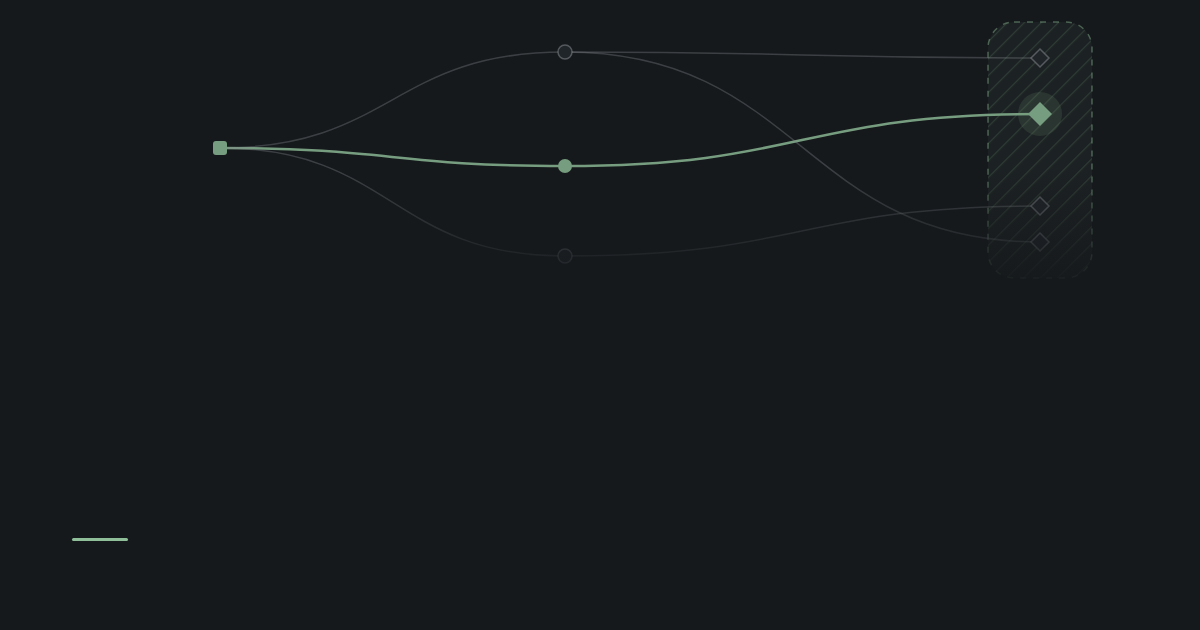
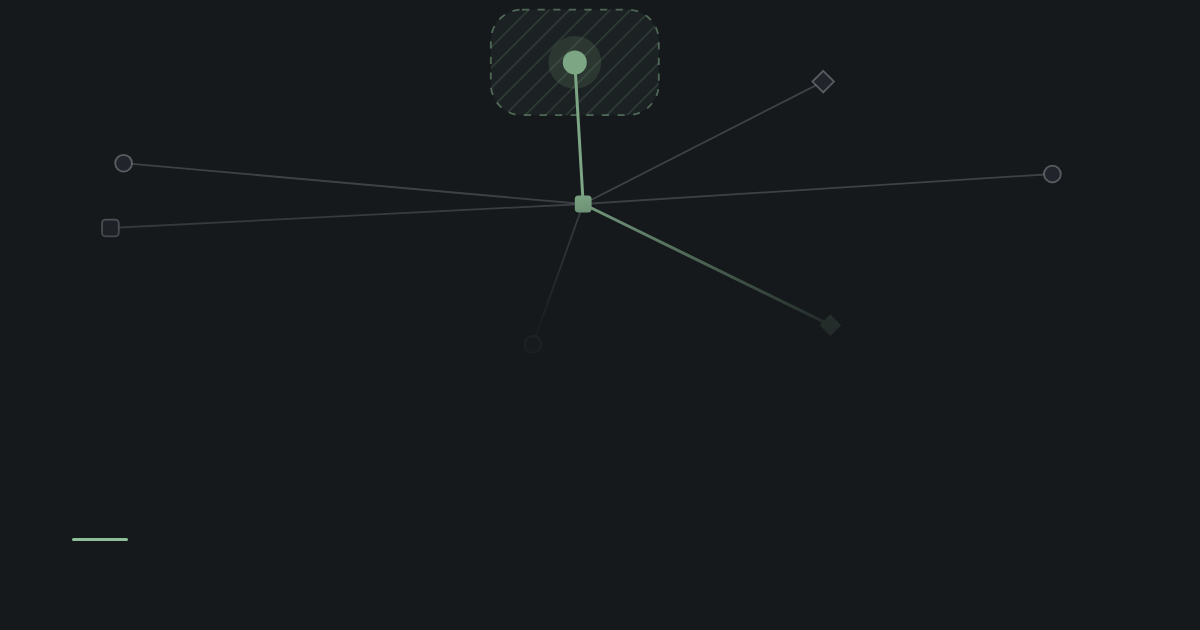
Draw from the article's outline, add a hub layout, topic dots and a pulse
Essays, talks and projects with three or more sections are drawn from
their own outline, and a series moves the boundary along with each part.
A quarter of the pages use a hub layout instead of the flow. Hues move
from inline styles to CSS classes, which also colour a small dot next to
topic names. A dot runs the highlighted path once after it draws in.
Social cards set the drawing larger behind the title and add the kind
and month.

Claude-Session: https://claude.ai/code/session_0175HbppHQcEwuQax9mw2rqe

diff --git a/layouts/_partials/diagram.html b/layouts/_partials/diagram.html
@@ -1,12 +1,14 @@
 {{- /*
-Trust Boundaries: a quiet, deterministic flow drawing for any page. A hash of the page's identity
-picks everything: how many columns of nodes, how many nodes per column, which links cross, which
-path is highlighted, where the trust boundary sits and the page's own muted hue. No labels, so
-the drawing stays calm; no two pages share a composition.
+Trust Boundaries: a quiet, deterministic drawing for any page. The page's topics pick the colours.
+An essay, talk or project with three or more sections is drawn from its own outline: one column
+per section, more nodes for a longer or subdivided section, and the boundary on the column of its
+part in a series. Everything else comes from a hash of the page's identity: a set shape for pages
+without an outline, flow or hub layout, line style, node marks, the highlighted path. No labels,
+so the drawing stays calm; no two pages share a composition.
 
 Context: dict "page" PAGE, optional "seed" (string, overrides the page identity),
 "name" (view-transition name), "class".
-Always decorative. Colours come from CSS custom properties, so the drawing follows the theme.
+Always decorative. Colours come from CSS classes and custom properties, so the drawing follows the theme.
 */ -}}
 {{- $p := .page -}}
 {{- $seed := .seed | default (printf "%s|%s" (partial "data/id.html" $p) $p.Title) -}}
@@ -14,78 +16,129 @@ Always decorative. Colours come from CSS custom properties, so the drawing follo
 {{- $hex := dict "0" 0 "1" 1 "2" 2 "3" 3 "4" 4 "5" 5 "6" 6 "7" 7 "8" 8 "9" 9 "a" 10 "b" 11 "c" 12 "d" 13 "e" 14 "f" 15 -}}
 {{- $n := slice -}}{{- range seq 0 31 -}}{{- $n = $n | append (index $hex (substr $h . 1)) -}}{{- end -}}
 
-{{- /* Colour: the first topic's hue for the path, the second topic's (if any) for the boundary. */ -}}
+{{- /* Colour: the first topic's hue for the path (t-<topic>), the second topic's for the boundary
+   (u-<topic>). A page without a topic takes one of eight hues from the hash (h-<n>). */ -}}
 {{- $topics := slice -}}
 {{- with .seed }}{{ with (partial "data/topic.html" .).id }}{{ $topics = slice . }}{{ end }}{{ else }}{{ $topics = partial "data/topics.html" $p }}{{ end -}}
-{{- $hue := index (slice 10 55 100 150 195 235 275 320) (mod (index $n 30) 8) -}}
-{{- with index $topics 0 }}{{ with (partial "data/topic.html" .).hue }}{{ $hue = . }}{{ end }}{{ end -}}
-{{- $hue2 := $hue -}}
-{{- if gt (len $topics) 1 }}{{ with (partial "data/topic.html" (index $topics 1)).hue }}{{ $hue2 = . }}{{ end }}{{ end -}}
+{{- $tone := printf "h-%d" (mod (index $n 30) 8) -}}
+{{- with index $topics 0 }}{{ $tone = printf "t-%s" . }}{{ end -}}
+{{- if gt (len $topics) 1 }}{{ $tone = printf "%s u-%s" $tone (index $topics 1) }}{{ end -}}
 
-{{- /* Shape: a third of the pages get a free flow (1–3 nodes per middle column); the rest take one
-   of the set shapes: fan-out, fan-in, diamond, relay through one party. */ -}}
-{{- $shapes := slice (slice 1 2 3 4) (slice 1 3 4) (slice 4 3 2 1) (slice 4 2 1) (slice 1 3 1) (slice 1 2 3 2 1) (slice 1 4 1) (slice 2 1 2) (slice 2 1 3 1) (slice 3 1 3) (slice 2 1 2 1 2) (slice 1 1 3) -}}
-{{- $counts := slice -}}
-{{- if lt (index $n 0) 5 -}}
-  {{- $cols := add 3 (mod (index $n 0) 3) -}}
-  {{- range $c := seq 0 (sub $cols 1) -}}
-    {{- $k := add 1 (mod (index $n (add 6 $c)) 3) -}}
-    {{- if or (eq $c 0) (eq $c (sub $cols 1)) }}{{ $k = add 1 (mod (index $n (add 6 $c)) 2) }}{{ end -}}
-    {{- $counts = $counts | append $k -}}
+{{- /* Outline: nodes per section, from the section's length against the page's average and
+   whether it has subsections. At most six sections are drawn. */ -}}
+{{- $counts := slice }}{{ $outline := false -}}
+{{- if and (not .seed) (in (slice "essay" "talk" "project") (partial "data/kind.html" $p)) -}}
+  {{- $words := slice }}{{ $subs := slice }}{{ $total := 0 -}}
+  {{- range $i, $s := split $p.RawContent "\n## " }}{{ if and $i (lt (len $words) 6) -}}
+    {{- $w := countwords $s }}{{ $total = add $total $w -}}
+    {{- $words = $words | append $w }}{{ $subs = $subs | append (sub (len (split $s "\n### ")) 1) -}}
+  {{- end }}{{ end -}}
+  {{- if ge (len $words) 3 -}}
+    {{- $outline = true }}{{ $mean := div $total (len $words) -}}
+    {{- range $i, $w := $words -}}
+      {{- $k := 1 -}}
+      {{- if gt (mul $w 4) (mul $mean 3) }}{{ $k = add $k 1 }}{{ end -}}
+      {{- if gt (mul $w 2) (mul $mean 3) }}{{ $k = add $k 1 }}{{ end -}}
+      {{- if index $subs $i }}{{ $k = add $k 1 }}{{ end -}}
+      {{- if and (gt $k 3) (gt (len $words) 4) }}{{ $k = 3 }}{{ end -}}
+      {{- $counts = $counts | append $k -}}
+    {{- end -}}
   {{- end -}}
-{{- else -}}
-  {{- $counts = index $shapes (mod (add (index $n 0) (index $n 31)) (len $shapes)) -}}
+{{- end -}}
+{{- /* Without an outline: a third of the pages get a free flow (1–3 nodes per middle column); the
+   rest take one of the set shapes: fan-out, fan-in, diamond, relay through one party. */ -}}
+{{- if not $outline -}}
+  {{- $shapes := slice (slice 1 2 3 4) (slice 1 3 4) (slice 4 3 2 1) (slice 4 2 1) (slice 1 3 1) (slice 1 2 3 2 1) (slice 1 4 1) (slice 2 1 2) (slice 2 1 3 1) (slice 3 1 3) (slice 2 1 2 1 2) (slice 1 1 3) -}}
+  {{- if lt (index $n 0) 5 -}}
+    {{- $c := add 3 (mod (index $n 0) 3) -}}
+    {{- range $i := seq 0 (sub $c 1) -}}
+      {{- $k := add 1 (mod (index $n (add 6 $i)) 3) -}}
+      {{- if or (eq $i 0) (eq $i (sub $c 1)) }}{{ $k = add 1 (mod (index $n (add 6 $i)) 2) }}{{ end -}}
+      {{- $counts = $counts | append $k -}}
+    {{- end -}}
+  {{- else -}}
+    {{- $counts = index $shapes (mod (add (index $n 0) (index $n 31)) (len $shapes)) -}}
+  {{- end -}}
 {{- end -}}
 {{- $cols := len $counts -}}
-{{- $step := div 820 (sub $cols 1) -}}
-{{- $gaps := slice 0 0 130 90 64 -}}
-{{- $nodes := slice }}{{ $colNodes := slice -}}
-{{- range $c, $k := $counts -}}
-  {{- $x := add (add 190 (mul $c $step)) (mul (sub (index $n (add 1 $c)) 7) 5) -}}
-  {{- $mark := mod (index $n (add 18 $c)) 3 -}}
-  {{- $ids := slice -}}
+{{- /* Part in a series (0 for the first), or -1. */ -}}
+{{- $part := -1 -}}
+{{- if not .seed }}{{ with partial "data/series.html" $p }}{{ range $i, $sp := .pages }}{{ if eq $sp $p }}{{ $part = $i }}{{ end }}{{ end }}{{ end }}{{ end -}}
+
+{{- $nodes := slice }}{{ $edges := slice }}{{ $path := slice -}}
+{{- $bx := 0 }}{{ $by := 0 }}{{ $bw := 0 }}{{ $bh := 0 -}}
+{{- $hub := lt (index $n 4) 4 -}}
+{{- if $hub -}}
+  {{- /* Hub: one party in the middle, one spoke per section (four to eight), the path in through
+     one spoke and out through another. The boundary sits on the hub or on the path's last node. */ -}}
+  {{- $k := add 5 (mod (index $n 0) 4) -}}
+  {{- if $outline }}{{ $k = cond (lt $cols 4) 4 $cols }}{{ end -}}
+  {{- $cx := add 600 (mul (sub (index $n 1) 7) 6) -}}
+  {{- $nodes = $nodes | append (dict "x" $cx "y" 200 "mark" (mod (index $n 18) 3)) -}}
+  {{- $from := mod (index $n 24) $k }}{{ $to := mod (add $from (add (div $k 2) (mod (index $n 25) 2))) $k -}}
+  {{- $turn := mul (index $n 2) 4 -}}
   {{- range $i := seq 0 (sub $k 1) -}}
-    {{- $gap := index $gaps $k -}}
-    {{- $y := add (sub 200 (div (mul $gap (sub $k 1)) 2)) (mul $i $gap) -}}
-    {{- $y = add $y (mul (sub (index $n (mod (add 12 (add (mul $c 3) $i)) 32)) 7) (cond (eq $k 4) 2 3)) -}}
-    {{- $ids = $ids | append (len $nodes) -}}
-    {{- $nodes = $nodes | append (dict "x" $x "y" $y "mark" $mark) -}}
+    {{- $deg := add (add (div (mul 360 $i) $k) $turn) (mul (sub (index $n (add 6 $i)) 7) 2) -}}
+    {{- $rad := div (mul (float $deg) math.Pi) 180 -}}
+    {{- $x := add $cx (int (math.Round (mul 400 (math.Cos $rad)))) }}{{ $y := add 200 (int (math.Round (mul 118 (math.Sin $rad)))) -}}
+    {{- $nodes = $nodes | append (dict "x" $x "y" $y "mark" (mod (index $n (add 19 (mod $i 5))) 3)) -}}
   {{- end -}}
-  {{- $colNodes = $colNodes | append (dict "ids" $ids) -}}
-{{- end -}}
-
-{{- /* Highlighted path: one node per column, chosen by the hash. */ -}}
-{{- $path := slice -}}
-{{- range $c, $col := $colNodes }}{{ $path = $path | append (index $col.ids (mod (index $n (add 24 $c)) (len $col.ids))) }}{{ end -}}
-
-{{- /* Links between neighbouring columns: every node has a way in and out, plus the highlighted path. */ -}}
-{{- $seen := dict }}{{ $edges := slice -}}
-{{- range $c := seq 0 (sub $cols 2) -}}
-  {{- $from := (index $colNodes $c).ids }}{{ $to := (index $colNodes (add $c 1)).ids -}}
-  {{- $pairs := slice (slice (index $path $c) (index $path (add $c 1)) true) -}}
-  {{- range $i, $a := $from }}{{ $pairs = $pairs | append (slice $a (index $to (mod $i (len $to))) false) }}{{ end -}}
-  {{- range $j, $b := $to }}{{ $pairs = $pairs | append (slice (index $from (mod $j (len $from))) $b false) }}{{ end -}}
-  {{- range $pairs -}}
-    {{- $key := printf "%d-%d" (index . 0) (index . 1) -}}
-    {{- if not (index $seen $key) }}{{ $seen = merge $seen (dict $key true) }}{{ $edges = $edges | append (dict "a" (index . 0) "b" (index . 1) "hi" (index . 2)) }}{{ end -}}
+  {{- $edges = slice (dict "a" (add $from 1) "b" 0 "hi" true) (dict "a" 0 "b" (add $to 1) "hi" true) -}}
+  {{- range $i := seq 0 (sub $k 1) }}{{ if and (ne $i $from) (ne $i $to) }}{{ $edges = $edges | append (dict "a" 0 "b" (add $i 1) "hi" false) }}{{ end }}{{ end -}}
+  {{- $path = slice (add $from 1) 0 (add $to 1) -}}
+  {{- $at := index $nodes (cond (eq (mod (index $n 10) 3) 0) (add $to 1) 0) -}}
+  {{- $bx = sub $at.x 70 }}{{ $by = sub $at.y 44 }}{{ $bw = 140 }}{{ $bh = 88 -}}
+{{- else -}}
+  {{- /* Flow: columns of nodes, left to right. */ -}}
+  {{- $step := div 820 (sub $cols 1) -}}
+  {{- $gaps := slice 0 0 130 90 64 -}}
+  {{- $colNodes := slice -}}
+  {{- range $c, $k := $counts -}}
+    {{- $x := add (add 190 (mul $c $step)) (mul (sub (index $n (add 1 $c)) 7) (cond (gt $cols 5) 3 5)) -}}
+    {{- $mark := mod (index $n (add 18 $c)) 3 -}}
+    {{- $ids := slice -}}
+    {{- range $i := seq 0 (sub $k 1) -}}
+      {{- $gap := index $gaps $k -}}
+      {{- $y := add (sub 200 (div (mul $gap (sub $k 1)) 2)) (mul $i $gap) -}}
+      {{- $y = add $y (mul (sub (index $n (mod (add 12 (add (mul $c 3) $i)) 32)) 7) (cond (eq $k 4) 2 3)) -}}
+      {{- $ids = $ids | append (len $nodes) -}}
+      {{- $nodes = $nodes | append (dict "x" $x "y" $y "mark" $mark) -}}
+    {{- end -}}
+    {{- $colNodes = $colNodes | append (dict "ids" $ids) -}}
   {{- end -}}
+  {{- /* Highlighted path: one node per column, chosen by the hash. */ -}}
+  {{- range $c, $col := $colNodes }}{{ $path = $path | append (index $col.ids (mod (index $n (add 24 $c)) (len $col.ids))) }}{{ end -}}
+  {{- /* Links between neighbouring columns: every node has a way in and out, plus the highlighted path. */ -}}
+  {{- $seen := dict -}}
+  {{- range $c := seq 0 (sub $cols 2) -}}
+    {{- $from := (index $colNodes $c).ids }}{{ $to := (index $colNodes (add $c 1)).ids -}}
+    {{- $pairs := slice (slice (index $path $c) (index $path (add $c 1)) true) -}}
+    {{- range $i, $a := $from }}{{ $pairs = $pairs | append (slice $a (index $to (mod $i (len $to))) false) }}{{ end -}}
+    {{- range $j, $b := $to }}{{ $pairs = $pairs | append (slice (index $from (mod $j (len $from))) $b false) }}{{ end -}}
+    {{- range $pairs -}}
+      {{- $key := printf "%d-%d" (index . 0) (index . 1) -}}
+      {{- if not (index $seen $key) }}{{ $seen = merge $seen (dict $key true) }}{{ $edges = $edges | append (dict "a" (index . 0) "b" (index . 1) "hi" (index . 2)) }}{{ end -}}
+    {{- end -}}
+  {{- end -}}
+  {{- /* Trust boundary around one or two neighbouring columns (never the first). In a series it
+     sits on the column of the page's part, so it moves along from one part to the next. */ -}}
+  {{- $b0 := add 1 (mod (index $n 10) (sub $cols 1)) -}}
+  {{- if ge $part 0 }}{{ $b0 = add 1 (mod $part (sub $cols 1)) }}{{ end -}}
+  {{- $b1 := $b0 }}{{ if and (eq (mod (index $n 11) 3) 0) (lt (add $b0 1) $cols) }}{{ $b1 = add $b0 1 }}{{ end -}}
+  {{- $minx := 2000 }}{{ $maxx := 0 }}{{ $miny := 2000 }}{{ $maxy := 0 -}}
+  {{- range seq $b0 $b1 }}{{ range (index $colNodes .).ids }}{{ $nd := index $nodes . -}}
+    {{- $minx = cond (lt $nd.x $minx) $nd.x $minx }}{{ $maxx = cond (gt $nd.x $maxx) $nd.x $maxx -}}
+    {{- $miny = cond (lt $nd.y $miny) $nd.y $miny }}{{ $maxy = cond (gt $nd.y $maxy) $nd.y $maxy -}}
+  {{- end }}{{ end -}}
+  {{- $bx = sub $minx 52 }}{{ $by = sub $miny 36 }}{{ $bw = add (sub $maxx $minx) 104 }}{{ $bh = add (sub $maxy $miny) 72 -}}
 {{- end -}}
-
-{{- /* Trust boundary around one or two neighbouring columns (never the first). */ -}}
-{{- $b0 := add 1 (mod (index $n 10) (sub $cols 1)) -}}
-{{- $b1 := $b0 }}{{ if and (eq (mod (index $n 11) 3) 0) (lt (add $b0 1) $cols) }}{{ $b1 = add $b0 1 }}{{ end -}}
-{{- $minx := 2000 }}{{ $maxx := 0 }}{{ $miny := 2000 }}{{ $maxy := 0 -}}
-{{- range seq $b0 $b1 }}{{ range (index $colNodes .).ids }}{{ $nd := index $nodes . -}}
-  {{- $minx = cond (lt $nd.x $minx) $nd.x $minx }}{{ $maxx = cond (gt $nd.x $maxx) $nd.x $maxx -}}
-  {{- $miny = cond (lt $nd.y $miny) $nd.y $miny }}{{ $maxy = cond (gt $nd.y $maxy) $nd.y $maxy -}}
-{{- end }}{{ end -}}
-{{- $bx := sub $minx 52 }}{{ $by := sub $miny 36 }}{{ $bw := add (sub $maxx $minx) 104 }}{{ $bh := add (sub $maxy $miny) 72 -}}
-{{- $end := index $nodes (index $path (sub $cols 1)) -}}
-{{- $style := printf "--h: %d; --h2: %d" $hue $hue2 }}{{ with .name }}{{ $style = printf "%s; view-transition-name: %s" $style . }}{{ end -}}
+{{- $endId := index $path (sub (len $path) 1) }}{{ $end := index $nodes $endId -}}
 {{- $id := substr $h 0 6 -}}
 {{- $line := index (slice 0 0 0 0 0 0 0 0 2 2 2 2 2 1 1 1) (index $n 5) -}}
+{{- if $hub }}{{ $line = 1 }}{{ end -}}
 {{- $fill := mod (index $n 29) 3 -}}
-<svg class="diagram {{ .class }}" viewBox="0 0 1200 400" xmlns="http://www.w3.org/2000/svg" preserveAspectRatio="xMidYMid slice" aria-hidden="true" focusable="false" style="{{ $style | safeCSS }}">
+{{- $pulses := slice -}}
+<svg class="diagram {{ $tone }}{{ with .class }} {{ . }}{{ end }}" viewBox="0 0 1200 400" xmlns="http://www.w3.org/2000/svg" preserveAspectRatio="xMidYMid slice" aria-hidden="true" focusable="false"{{ with .name }} style="{{ printf "view-transition-name: %s" . | safeCSS }}"{{ end }}>
 {{ if $fill }}<defs>
 {{- if eq $fill 1 }}<pattern id="p{{ $id }}" width="18" height="18" patternUnits="userSpaceOnUse"><circle cx="9" cy="9" r="1.2" class="d-fill"/></pattern>{{ end -}}
 {{- if eq $fill 2 }}<pattern id="p{{ $id }}" width="12" height="12" patternUnits="userSpaceOnUse" patternTransform="rotate(45)"><rect width="1.2" height="12" class="d-fill"/></pattern>{{ end -}}
@@ -95,20 +148,26 @@ Always decorative. Colours come from CSS custom properties, so the drawing follo
 <rect x="{{ $bx }}" y="{{ $by }}" width="{{ $bw }}" height="{{ $bh }}" rx="26" fill="url(#p{{ $id }})"/>
 {{- end }}
 <rect x="{{ $bx }}" y="{{ $by }}" width="{{ $bw }}" height="{{ $bh }}" rx="26" class="d-boundary"/>
-{{- range $ei, $e := $edges -}}
+{{- range $e := $edges -}}
   {{- $a := index $nodes $e.a }}{{ $b := index $nodes $e.b }}{{ $mx := div (add $a.x $b.x) 2 -}}
   {{- $d := printf "M%d %dC%d %d %d %d %d %d" $a.x $a.y $mx $a.y $mx $b.y $b.x $b.y -}}
   {{- if eq $line 1 }}{{ $d = printf "M%d %dL%d %d" $a.x $a.y $b.x $b.y }}{{ end -}}
   {{- if eq $line 2 -}}
     {{- $dy := sub $b.y $a.y }}{{ $ady := cond (lt $dy 0) (sub 0 $dy) $dy -}}
-    {{- $r := cond (lt $ady 32) (div $ady 2) 16 }}{{ $ry := cond (lt $dy 0) (sub 0 $r) $r -}}
-    {{- $d = printf "M%d %dH%dQ%d %d %d %dV%dQ%d %d %d %dH%d" $a.x $a.y (sub $mx $r) $mx $a.y $mx (add $a.y $ry) (sub $b.y $ry) $mx $b.y (add $mx $r) $b.y $b.x -}}
-  {{- end }}
-<path d="{{ $d }}" class="d-edge{{ if $e.hi }} hi{{ end }}"{{ if $e.hi }} pathLength="1" style="--i: {{ $ei }}"{{ end }}/>
+    {{- $dx := sub $b.x $a.x }}{{ $adx := cond (lt $dx 0) (sub 0 $dx) $dx -}}
+    {{- $r := cond (lt $ady 32) (div $ady 2) 16 }}{{ $r = cond (lt $adx (mul $r 2)) (div $adx 2) $r -}}
+    {{- $ry := cond (lt $dy 0) (sub 0 $r) $r }}{{ $rx := cond (lt $dx 0) (sub 0 $r) $r -}}
+    {{- $d = printf "M%d %dH%dQ%d %d %d %dV%dQ%d %d %d %dH%d" $a.x $a.y (sub $mx $rx) $mx $a.y $mx (add $a.y $ry) (sub $b.y $ry) $mx $b.y (add $mx $rx) $b.y $b.x -}}
+  {{- end -}}
+  {{- if $e.hi }}{{ $pulses = $pulses | append $d }}{{ end }}
+<path d="{{ $d }}" class="d-edge{{ if $e.hi }} hi{{ end }}"{{ if $e.hi }} pathLength="1"{{ end }}/>
+{{- end }}
+{{- range $i, $d := $pulses }}
+<path d="{{ $d }}" class="d-pulse s{{ $i }}" pathLength="1"/>
 {{- end }}
 <circle cx="{{ $end.x }}" cy="{{ $end.y }}" r="22" class="d-halo"/>
 {{- range $i, $nd := $nodes -}}
-  {{- $last := eq $i (index $path (sub $cols 1)) }}{{ $r := cond $last 10 7 }}{{ $class := printf "d-node%s" (cond (in $path $i) " hi" "") }}
+  {{- $last := eq $i $endId }}{{ $r := cond $last 10 7 }}{{ $class := printf "d-node%s" (cond (in $path $i) " hi" "") }}
 {{ if eq $nd.mark 1 }}<rect x="{{ sub $nd.x $r }}" y="{{ sub $nd.y $r }}" width="{{ mul $r 2 }}" height="{{ mul $r 2 }}" rx="3" class="{{ $class }}"/>
 {{- else if eq $nd.mark 2 }}{{ $q := add $r 2 }}<path d="M{{ $nd.x }} {{ sub $nd.y $q }}l{{ $q }} {{ $q }}-{{ $q }} {{ $q }}-{{ $q }}-{{ $q }}z" class="{{ $class }}"/>
 {{- else }}<circle cx="{{ $nd.x }}" cy="{{ $nd.y }}" r="{{ $r }}" class="{{ $class }}"/>{{ end }}

diff --git a/assets/css/site.css b/assets/css/site.css
@@ -479,8 +479,14 @@
 }
 
 @layer diagram {
-  /* Each drawing takes its hues from the page's topics (--h, --h2); tone and lightness are shared, so all of them stay quiet. */
-  .diagram { --tone: light-dark(oklch(55% 0.1 var(--h, 8)), oklch(76% 0.075 var(--h, 8))); --tone2: light-dark(oklch(55% 0.1 var(--h2, 8)), oklch(76% 0.075 var(--h2, 8))); --dg: color-mix(in oklch, var(--tone) 5%, var(--ground-2)); }
+  /* A drawing takes its hues from the page's topics: t-<topic> for the path, u-<topic> for the boundary; h-<n> without a
+     topic. Tone and lightness are shared, so all of them stay quiet. The same tone colours the topic dots. */
+  .t-agentic-engineering { --h: 290; } .t-identity-authentication { --h: 240; } .t-application-security { --h: 20; } .t-passwords { --h: 75; } .t-tokens-jwt { --h: 150; } .t-engineering-practice { --h: 195; }
+  .u-agentic-engineering { --h2: 290; } .u-identity-authentication { --h2: 240; } .u-application-security { --h2: 20; } .u-passwords { --h2: 75; } .u-tokens-jwt { --h2: 150; } .u-engineering-practice { --h2: 195; }
+  .h-0 { --h: 10; } .h-1 { --h: 55; } .h-2 { --h: 100; } .h-3 { --h: 150; } .h-4 { --h: 195; } .h-5 { --h: 235; } .h-6 { --h: 275; } .h-7 { --h: 320; }
+  .diagram, .dot { --tone: light-dark(oklch(55% 0.1 var(--h, 8)), oklch(76% 0.075 var(--h, 8))); }
+  .diagram { --tone2: light-dark(oklch(55% 0.1 var(--h2, var(--h, 8))), oklch(76% 0.075 var(--h2, var(--h, 8)))); --dg: color-mix(in oklch, var(--tone) 5%, var(--ground-2)); }
+  .dot { display: inline-block; width: 0.5em; height: 0.5em; border-radius: 50%; background: var(--tone); margin-right: 0.4em; vertical-align: 0.08em; }
   .diagram .d-ground { fill: var(--dg); }
   .diagram .d-fill { fill: color-mix(in oklch, var(--tone2) 22%, transparent); }
   .diagram .d-boundary { fill: color-mix(in oklch, var(--tone2) 7%, transparent); stroke: color-mix(in oklch, var(--tone2) 55%, transparent); stroke-width: 1.5; stroke-dasharray: 6 7; }
@@ -489,11 +495,18 @@
   .diagram .d-node { fill: var(--dg); stroke: color-mix(in oklch, var(--ink-2) 55%, transparent); stroke-width: 1.5; }
   .diagram .d-node.hi { fill: var(--tone); stroke: none; }
   .diagram .d-halo { fill: color-mix(in oklch, var(--tone) 16%, transparent); }
+  /* The pulse: a dot (a zero-length dash with a round cap) that runs the highlighted path once, segment by segment. */
+  .diagram .d-pulse { fill: none; stroke: color-mix(in oklch, var(--tone) 45%, var(--ink)); stroke-width: 7; stroke-linecap: round; stroke-dasharray: 0 1; opacity: 0; }
+  .s1 { --s: 1; } .s2 { --s: 2; } .s3 { --s: 3; } .s4 { --s: 4; }
   @media (prefers-reduced-motion: no-preference) {
     .diagram .d-edge.hi { animation: draw 1.2s var(--ease) backwards; animation-delay: 200ms; }
     .diagram .d-halo { animation: fade 0.8s var(--ease) backwards; animation-delay: 1s; }
+    .diagram .d-pulse { animation: pulse 0.5s linear calc(1.6s + var(--s, 0) * 0.5s); }
+    a:hover > .diagram .d-pulse { animation: pulse-again 0.5s linear calc(var(--s, 0) * 0.5s); }
     @keyframes draw { from { stroke-dashoffset: 1; } }
     @keyframes fade { from { opacity: 0; } }
+    @keyframes pulse { from { stroke-dashoffset: 0; opacity: 1; } to { stroke-dashoffset: -1; opacity: 1; } }
+    @keyframes pulse-again { from { stroke-dashoffset: 0; opacity: 1; } to { stroke-dashoffset: -1; opacity: 1; } }
   }
   @media (prefers-reduced-motion: reduce) {
     @view-transition { navigation: none; }

diff --git a/layouts/section.html b/layouts/section.html
@@ -26,7 +26,7 @@
 <header class="wrap page-header"><h1>{{ .Title }}</h1><p class="lead">{{ .Description }}</p></header>
 <div class="wrap topic-cards">
   {{- range hugo.Data.topics.topic }}{{ $t := . }}{{ with site.GetPage (printf "/topics/%s" .id) }}
-  <a class="topic-card" href="{{ .RelPermalink }}">{{ partial "diagram.html" (dict "page" . "seed" $t.id "class" "mini") }}<span class="topic-card-text"><span class="topic-card-title">{{ $t.title }}</span><span>{{ $t.description }}</span><span class="count">{{ index (partialCached "data/topic-counts.html" . "all") $t.id | default 0 }} entries</span></span></a>
+  <a class="topic-card" href="{{ .RelPermalink }}">{{ partial "diagram.html" (dict "page" . "seed" $t.id "class" "mini") }}<span class="topic-card-text"><span class="topic-card-title"><span class="dot t-{{ $t.id }}" aria-hidden="true"></span>{{ $t.title }}</span><span>{{ $t.description }}</span><span class="count">{{ index (partialCached "data/topic-counts.html" . "all") $t.id | default 0 }} entries</span></span></a>
   {{- end }}{{ end }}
 </div>
 {{- else if eq .Section "knowledge-base" -}}

diff --git a/layouts/_partials/social-card.html b/layouts/_partials/social-card.html
@@ -17,6 +17,11 @@
     (images.Text $title (dict "font" $font "size" $size "linespacing" (int (mul $size 0.18)) "x" 72 "y" 330 "color" "#dfe1e5"))
     (images.Text $label (dict "font" $mono "size" 22 "x" 72 "y" 560 "color" $tone))
   -}}
+  {{- /* Kind and month on the right, for dated entries. */ -}}
+  {{- if and $eligible (not .Date.IsZero) (in (slice "essay" "guide" "talk" "project") (partial "data/kind.html" .)) -}}
+    {{- $what := printf "%s  /  %s" (upper (partial "ui/kind-label.html" (partial "data/kind.html" .))) (upper (.Date.Format "Jan 2006")) -}}
+    {{- $filters = $filters | append (images.Text $what (dict "font" $mono "size" 22 "x" 1128 "y" 560 "alignx" "right" "color" "#a4a8ae")) -}}
+  {{- end -}}
   {{- $target := printf "%ssocial.png" (strings.TrimPrefix "/" .RelPermalink) -}}
   {{- $card = $base | images.Filter $filters | resources.Copy $target -}}
 {{- end -}}

diff --git a/layouts/_partials/ui/eyebrow.html b/layouts/_partials/ui/eyebrow.html
@@ -1,6 +1,6 @@
 {{- $kind := partial "data/kind.html" . -}}
 <p class="eyebrow">
   <span>{{ partial "ui/kind-label.html" $kind }}</span>
-  {{- range partial "data/topics.html" . }}{{ with partial "data/topic.html" . }} <span aria-hidden="true">/</span> <a class="chip" href="/topics/{{ .id }}/">{{ .title }}</a>{{ end }}{{ end }}
+  {{- range partial "data/topics.html" . }}{{ with partial "data/topic.html" . }} <span aria-hidden="true">/</span> <a class="chip" href="/topics/{{ .id }}/"><span class="dot t-{{ .id }}" aria-hidden="true"></span>{{ .title }}</a>{{ end }}{{ end }}
   {{- with partial "data/series.html" . }} <span aria-hidden="true">/</span> <a href="#series">Series: {{ .title }}</a>{{ end }}
 </p>

diff --git a/layouts/_partials/row.html b/layouts/_partials/row.html
@@ -1,5 +1,5 @@
 {{- $kind := partial "data/kind.html" . -}}
 <li class="row">
-  <a href="{{ .RelPermalink }}"><span class="row-title">{{ .Title }}</span></a>
+  <a href="{{ .RelPermalink }}"><span class="row-title">{{ with index (partial "data/topics.html" .) 0 }}<span class="dot t-{{ . }}" aria-hidden="true"></span>{{ end }}{{ .Title }}</span></a>
   <span class="row-meta"><time datetime="{{ .Date.Format "2006-01-02" }}">{{ .Date.Format "Jan 2006" }}</time>{{ if ne $kind "essay" }} <span class="kind">{{ partial "ui/kind-label.html" $kind }}</span>{{ end }}{{ with partial "data/series.html" . }} <span class="series">{{ .title }}</span>{{ end }}</span>
 </li>

diff --git a/layouts/_partials/ui/topic-nav.html b/layouts/_partials/ui/topic-nav.html
@@ -2,6 +2,6 @@
 {{- $counts := partialCached "data/topic-counts.html" . "all" -}}
 <ul class="topic-nav">
 {{- range hugo.Data.topics.topic }}{{ $t := . }}{{ with index $counts $t.id }}
-  <li><a href="/topics/{{ $t.id }}/"><span class="topic-nav-title">{{ $t.title }}</span> <span class="count">{{ . }} entries</span></a><p>{{ $t.description }}</p></li>
+  <li><a href="/topics/{{ $t.id }}/"><span class="topic-nav-title"><span class="dot t-{{ $t.id }}" aria-hidden="true"></span>{{ $t.title }}</span> <span class="count">{{ . }} entries</span></a><p>{{ $t.description }}</p></li>
 {{- end }}{{ end }}
 </ul>

diff --git a/docs/DESIGN.md b/docs/DESIGN.md
@@ -56,18 +56,22 @@ The header has one setting: a light/dark toggle. It follows the system until use
 
 ## The drawing
 
-`layouts/_partials/diagram.html` draws a deterministic, label-free SVG for any page. The page's topics decide the colour; an MD5 of the page's ID and title (or a `seed`, such as a topic ID on topic pages) decides the rest:
+`layouts/_partials/diagram.html` draws a deterministic, label-free SVG for any page. The page's topics decide the colour, its outline the shape, and an MD5 of the page's ID and title (or a `seed`, such as a topic ID on topic pages) the rest:
 
-- the hue of the page's first topic (`hue` in `data/topics.toml`: Agents 290, Identity 240, AppSec 20, Passwords 75, Tokens 150, Engineering 195) for the highlighted path and the plate's faint tint; the second topic's hue, if there is one, for the trust boundary. Lightness and chroma are shared, so every hue is equally quiet. A page without a topic gets one of eight hues from the hash;
-- the shape: a free flow of 3–5 columns with 1–3 nodes each, or one of twelve set shapes (fan-out, fan-in, diamond, relay through a single party), up to four nodes in a column;
-- the line style: curves (half of the pages), right-angled runs with rounded corners, or straight lines;
-- the node mark of each column: circle, square or diamond;
-- links so every node has a way in and out, drawn thin and neutral, and one highlighted path, one node per column, ending in a node with a soft halo;
-- one dashed trust boundary around one or two neighbouring columns (never the first), plain or filled with faint dots or hatching.
+- **Colour.** The hue of the page's first topic for the highlighted path and the plate's faint tint; the second topic's hue, if there is one, for the trust boundary. The hues are CSS classes in `assets/css/site.css`: `t-<topic>` sets `--h`, `u-<topic>` sets `--h2` (Agents 290, Identity 240, AppSec 20, Passwords 75, Tokens 150, Engineering 195). A page without a topic gets one of eight hues from the hash (`h-<n>`). Lightness and chroma are shared, so every hue is equally quiet. Classes, not inline styles, so the drawing keeps its colour under `style-src 'self'`.
+- **Shape from the outline.** An essay, talk or project with three or more `##` sections gets one column per section (the first six). A section has one node, one more if it is longer than three quarters of the page's average section, another if it is longer than one and a half times the average, and another if it has `###` subsections (four at most, three when there are five or six columns). In a series the trust boundary sits on the column of the page's part, so it moves along from one part to the next.
+- **Shape without an outline** (field-guide entries, which share one structure, topic pages and short posts): a free flow of 3–5 columns with 1–3 nodes each, or one of twelve set shapes (fan-out, fan-in, diamond, relay through a single party).
+- **Layout.** Three quarters of the pages are a flow from left to right. A quarter are a hub: one party in the middle with one spoke per section (four to eight), the path in through one spoke and out through another, and the boundary on the hub or on the path's last node.
+- **Line style:** curves (half of the flows), right-angled runs with rounded corners, or straight lines (always in a hub).
+- **Node marks** per column: circle, square or diamond.
+- Links so every node has a way in and out, drawn thin and neutral, and one highlighted path ending in a node with a soft halo.
+- One dashed trust boundary, plain or filled with faint dots or hatching.
 
-So no two pages share a composition, and a topic is recognisable by its colour without its pages looking alike. Colour never carries the topic alone: the eyebrow names it. The drawing is always decorative (`aria-hidden`); explanatory figures use `figure-diagram` with a text alternative. Colours come from the tokens and `--h`, so the same SVG works in both themes. The highlighted path draws in once on load; under `prefers-reduced-motion` everything is static. The same `view-transition-name` on the home flagship and its article lets the drawing carry across the navigation (`@view-transition { navigation: auto; }`, CSS only). Article and flagship drawings sit inside the content width as a rounded plate, 4:1 on wide screens and 5:2 on narrow ones.
+So no two pages share a composition, and a topic is recognisable by its colour without its pages looking alike. Colour never carries the topic alone: the eyebrow names it. The same tone is the small dot (`.dot`) before a topic's name in the eyebrow, the topic rows and cards, and before a title in the writing lists.
 
-Social cards reuse it: `assets/cards/pages/<id>.png` is each article's own drawing, drawn on every CI build by `scripts/card-plates.sh` and not committed, and `assets/cards/<topic>.png` the committed topic drawings (the fallback for pages without their own plate, e.g. in a local build), all rendered at 1200×630 in the dark theme; Hugo's `images.Text` writes the title (Geist Bold) and the topic label (Geist Mono, in the topic's tone: `card` in `data/topics.toml`, the hue as sRGB) at build time; the short bar above the label is drawn into the plate in the same tone. To regenerate the topic plates after changing the drawing or the palette: build, serve on port 8000, then run `node scripts/card-plates.cjs`. To see article cards locally, run `./scripts/card-plates.sh` before `./scripts/verify.sh`.
+Motion, only without `prefers-reduced-motion`: the highlighted path draws in once on load, the halo fades in, then a small dot runs the path once (a zero-length dash with a round cap, one segment after the other). Hovering a linked drawing, such as a topic card, runs the dot again. The drawing is always decorative (`aria-hidden`); explanatory figures use `figure-diagram` with a text alternative. Colours come from the tokens and `--h`, so the same SVG works in both themes. Under `prefers-reduced-motion` everything is static. The same `view-transition-name` on the home flagship and its article lets the drawing carry across the navigation (`@view-transition { navigation: auto; }`, CSS only). Article and flagship drawings sit inside the content width as a rounded plate, 4:1 on wide screens and 5:2 on narrow ones.
+
+Social cards reuse it: `assets/cards/pages/<id>.png` is each article's own drawing, drawn on every CI build by `scripts/card-plates.sh` and not committed, and `assets/cards/<topic>.png` the committed topic drawings (the fallback for pages without their own plate, e.g. in a local build), all rendered at 1200×630 in the dark theme. The drawing is set 1.2 times larger than the card and fades out behind the title. Hugo's `images.Text` writes the title (Geist Bold), the topic label on the left (Geist Mono, in the topic's tone: `card` in `data/topics.toml`, the hue as sRGB) and the kind and month on the right at build time; the short bar above the label is drawn into the plate in the same tone. To regenerate the topic plates after changing the drawing or the palette: build, serve on port 8000, then run `node scripts/card-plates.cjs`. To see article cards locally, run `./scripts/card-plates.sh` before `./scripts/verify.sh`.
 
 ## Layout
 
